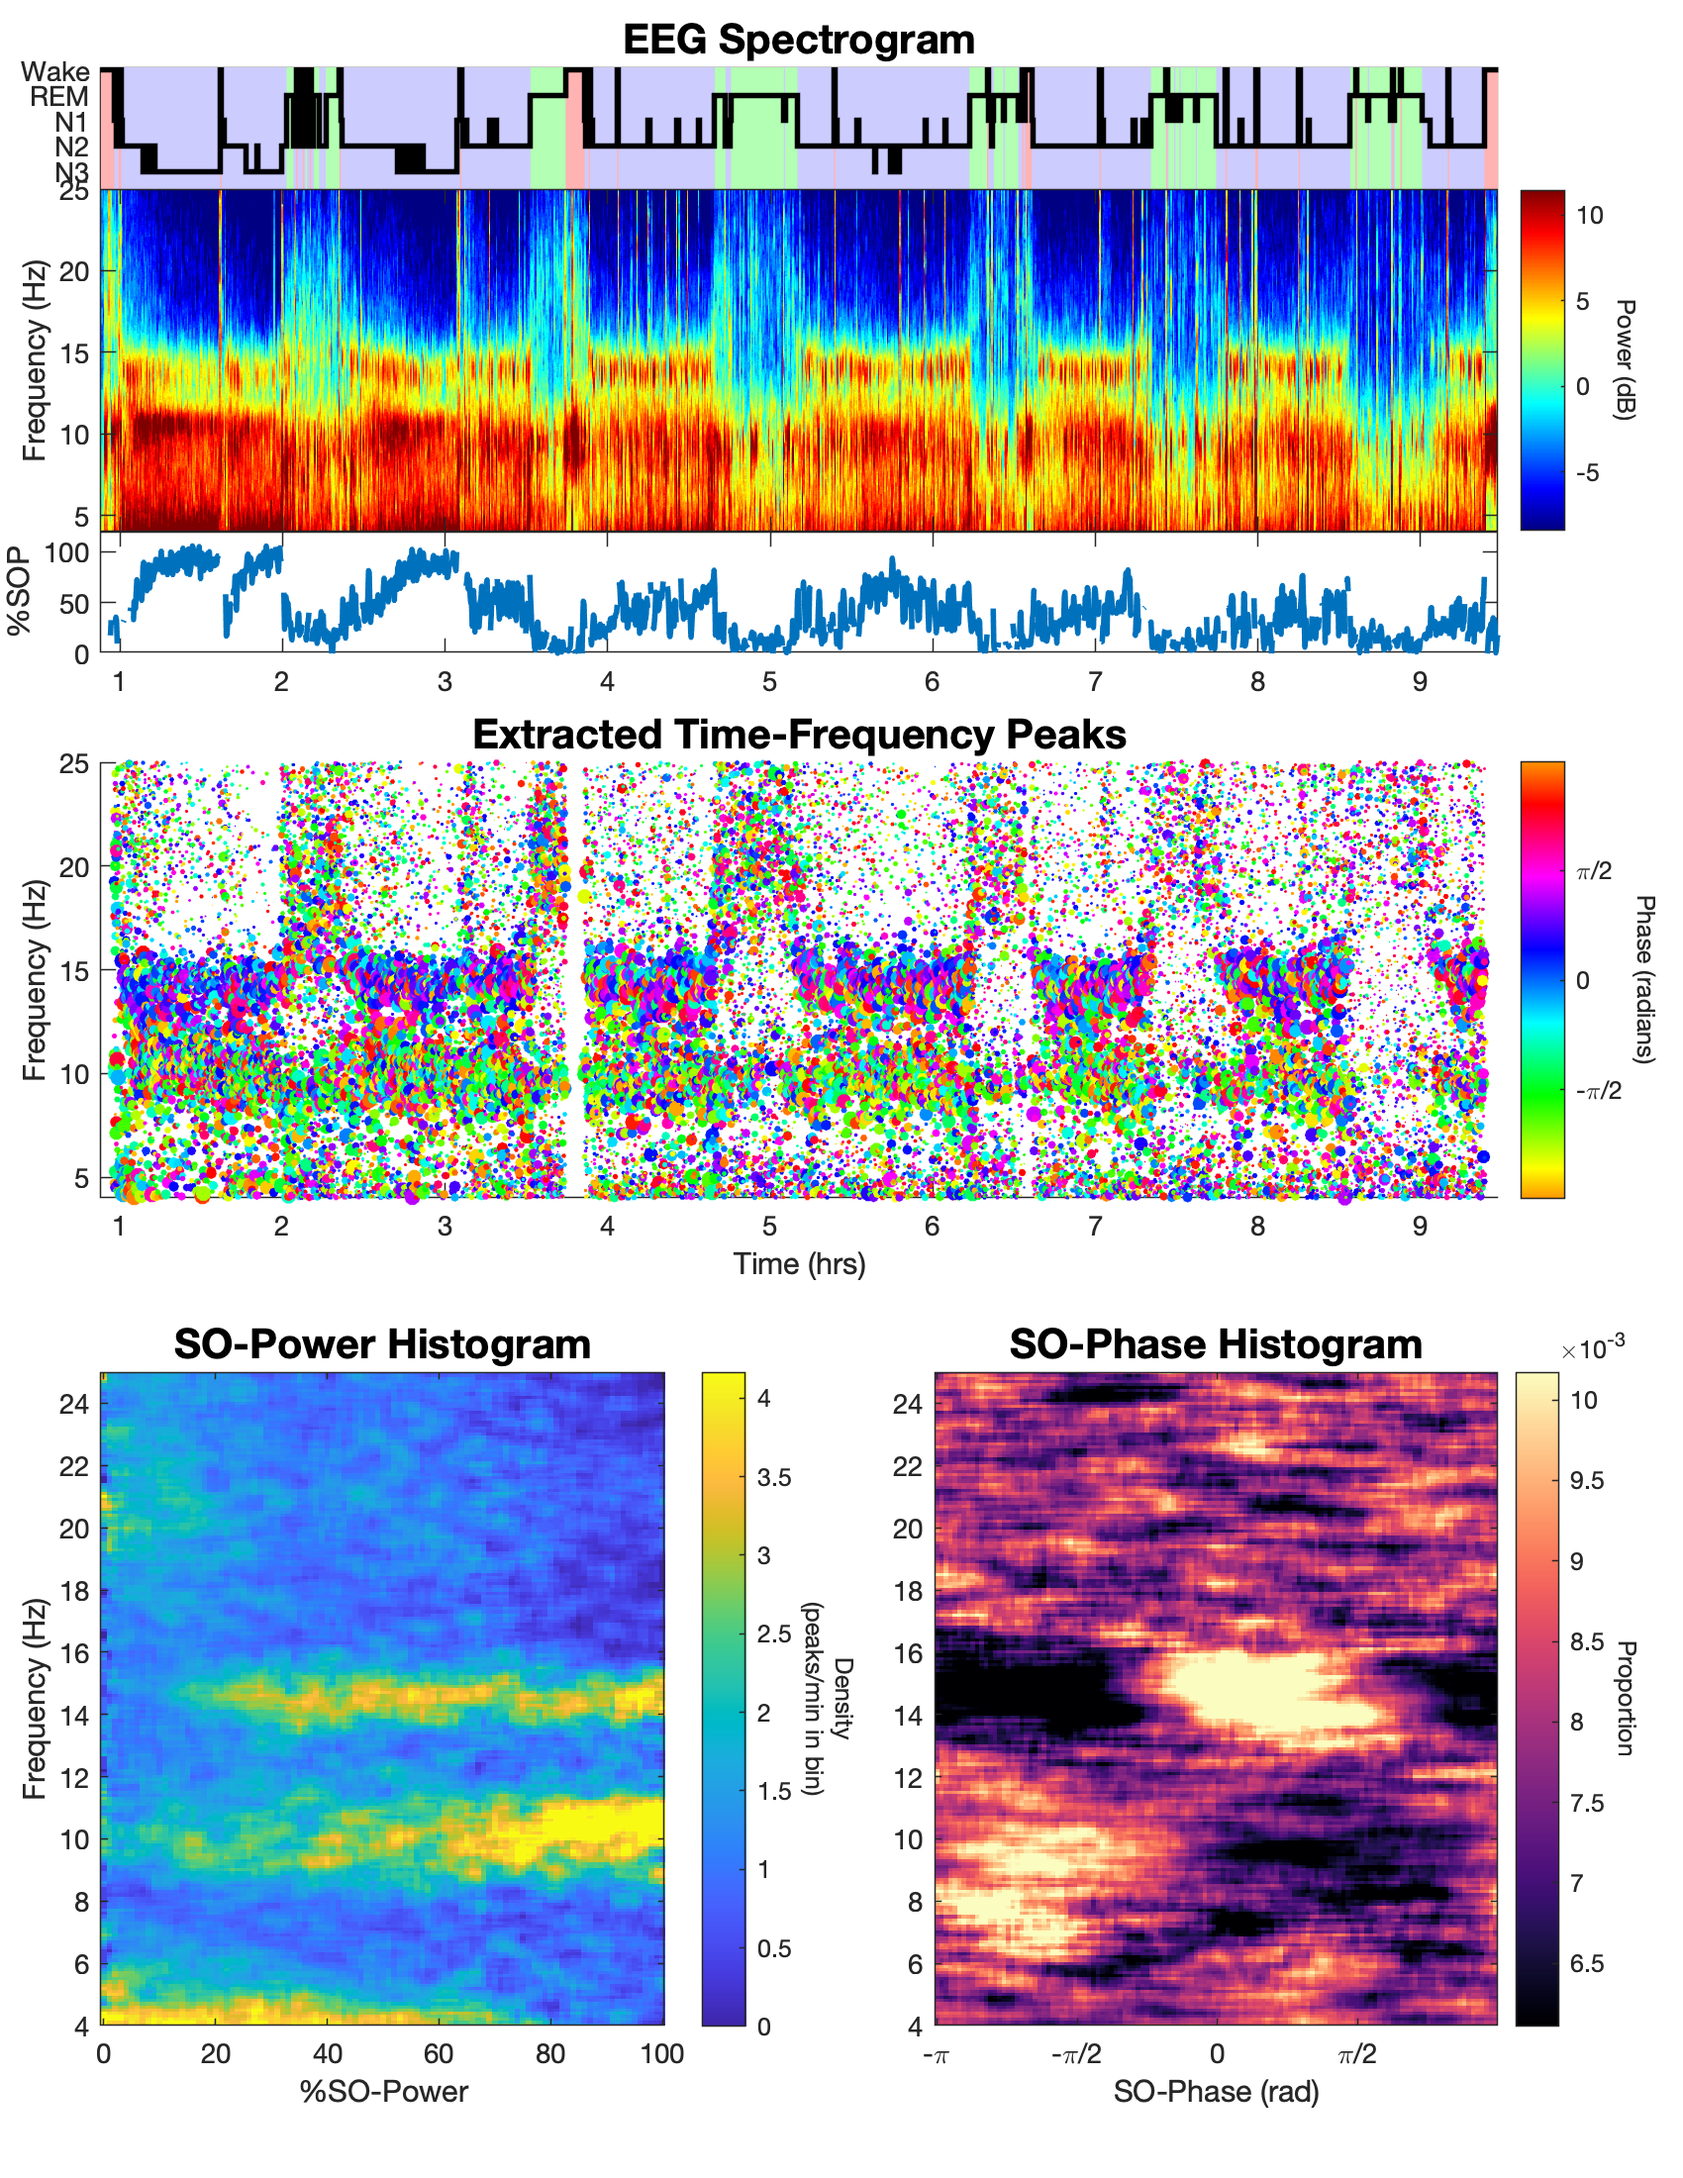
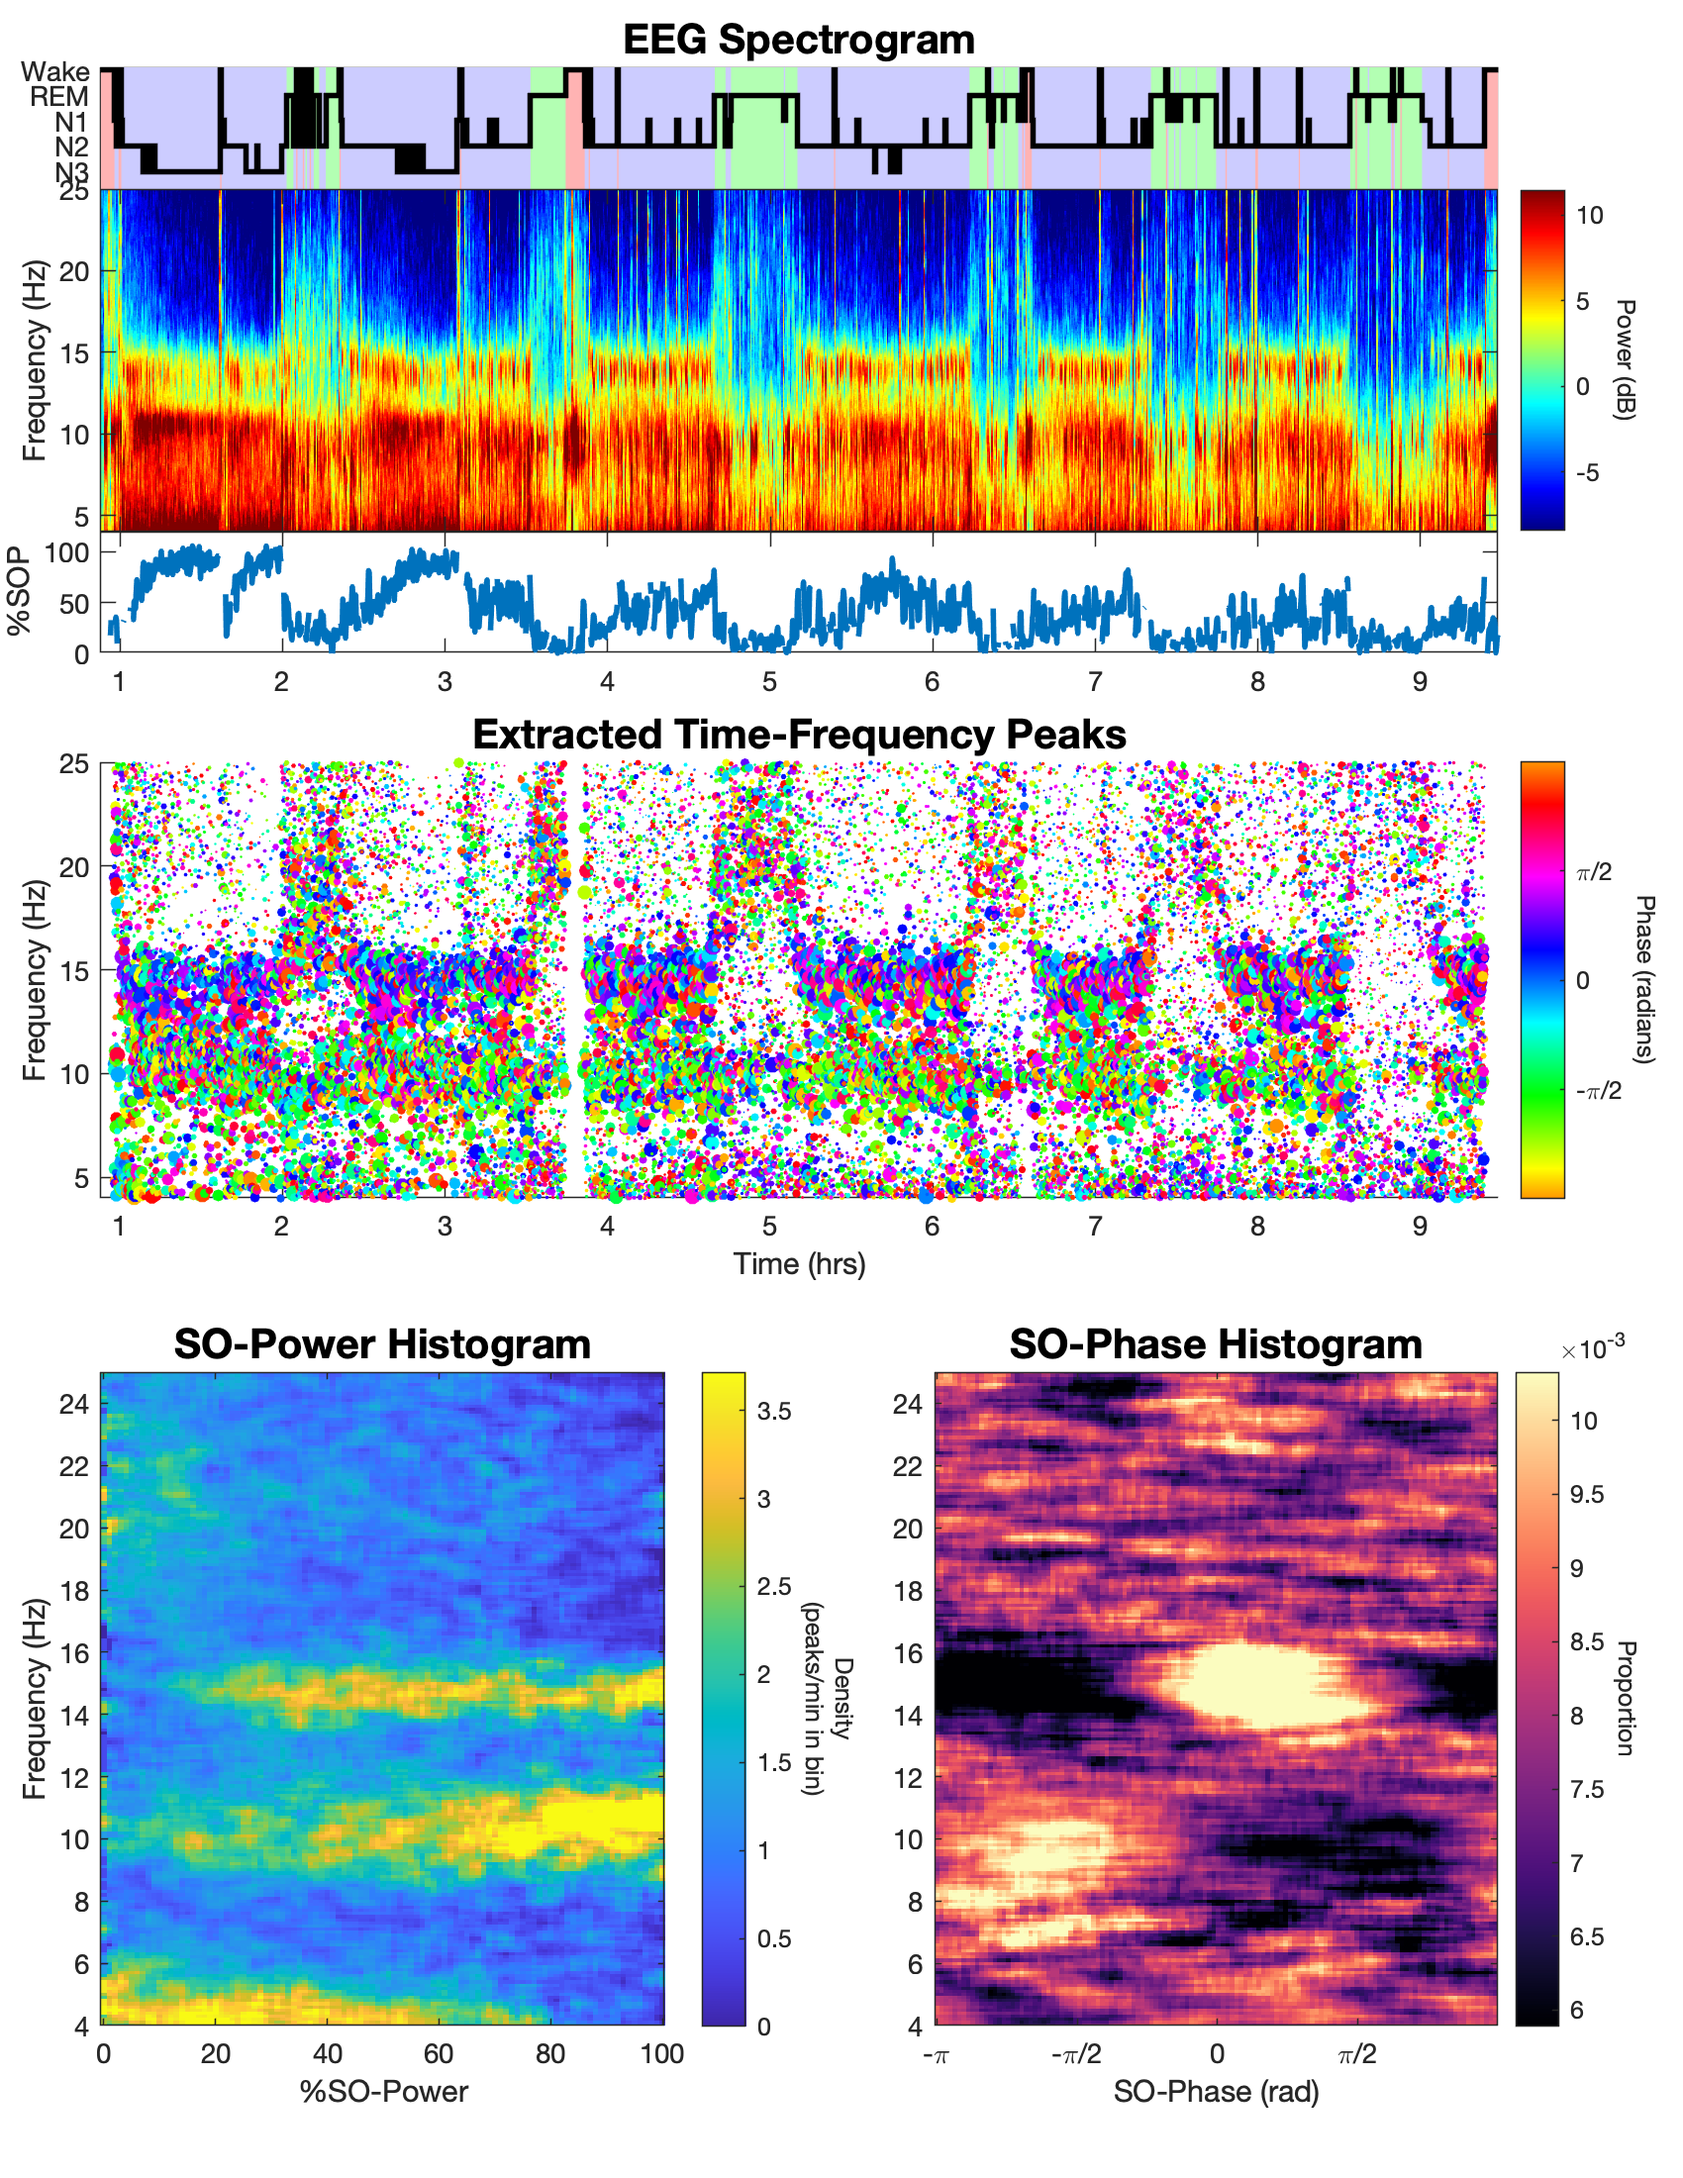
Updated script to make options clearer

diff --git a/example_script.m b/example_script.m
@@ -3,6 +3,18 @@
 %Clear workspace and close plots
 clear; close all; clc;
 
+%% SETTINGS
+%Select 'segment' or 'night' for example data range
+data_range = 'night'; 
+
+%Spectral settings for computing watershed
+% 'paper' or 'precision': high res analysis used for SLEEP paper
+% 'fast': ~3x speed up with minimal impact on results *suggested*
+% 'draft': ~10x speed-up, good for SO-power histograms, biased SO-phase
+%          Do not use for SO-phase analyses
+WS_settings = "draft"; 
+
+%% PREPARE DATA
 %Check for parallel toolbox
 v = ver;
 haspar = any(strcmp({v.Name}, 'Parallel Computing Toolbox'));
@@ -18,9 +30,6 @@ load('example_data/example_data.mat', 'EEG', 'stage_vals', 'stage_times', 'Fs');
 
 % Add necessary functions to path
 addpath(genpath('./toolbox'))
-
-%Select 'segment' or 'night' for example data range
-data_range = 'night'; 
 
 switch data_range
     case 'segment'
@@ -42,8 +51,6 @@ switch data_range
 end
 
 %% RUN WATERSHED AND COMPUTE SO-POWER/PHASE HISTOGRAMS
-
-WS_settings = "draft"; %Change 'paper' to settings used in SLEEP paper
 
 [peak_props, SOpow_mat, SOphase_mat, SOpow_bins, SOphase_bins, freq_bins, spect, stimes, sfreqs, SOpower_norm, SOpow_times] = run_watershed_SOpowphase(EEG, Fs, stage_times, stage_vals, 'time_range', time_range,'spect_settings',WS_settings);
 

diff --git a/toolbox/watershed_functions/run_watershed_SOpowphase.m b/toolbox/watershed_functions/run_watershed_SOpowphase.m
@@ -94,12 +94,13 @@ switch lower(spect_settings)
     case {'paper', 'precision'} %Matches SLEEP paper settings
         time_window_params = [1,0.05]; % [time window, time step] in seconds
         df = 0.1; % For consistency with our results we expect a df of 0.1 Hz or less
-    case 'fast' %3x speed improvement with little accuracy reduction
+    case 'fast' %~3x speed improvement with little accuracy reduction
         time_window_params = [1,0.1]; % [time window, time step] in seconds
         df = 0.2;
     case 'draft' %10x speed improvement with but phase shift
-        time_window_params = [1,0.1]; % [time window, time step] in seconds
-        df = 0.25;
+        time_window_params = [1,0.25]; % [time window, time step] in seconds
+        df = 0.5;
+        disp('Draft mode provides reasonable SO-power Histogram estimates but inaccurate SO-phase')
     otherwise
         error('spect_settings must be ''paper'', ''fast'', or ''draft''')
 end

diff --git a/toolbox/watershed_functions/peaksWShedStatsWrapper.m b/toolbox/watershed_functions/peaksWShedStatsWrapper.m
@@ -131,9 +131,9 @@ end
 if isempty(y)
     y = 1:size(data,1);
 end
-% maximum number of pixels per segment
+% maximum segment duration in seconds
 if isempty(seg_time)
-    seg_time = 15; %487900 % 975800; % 400000;
+    seg_time = 15; 
 end
 % connection parameter in labeling watershed boundaries
 if isempty(conn_wshed)
@@ -294,7 +294,7 @@ end
 % Assembles peaks stats for all segs into single matrix and cell arrays *
 %**************************************************************************
 if f_verb > 0
-    disp([verb_pref 'Assembling stats from segs...']);
+    disp([verb_pref 'Assembling peak statistics from segments...']);
 end
 % Determine number of non-empty peaks
 num_peaks = 0;
